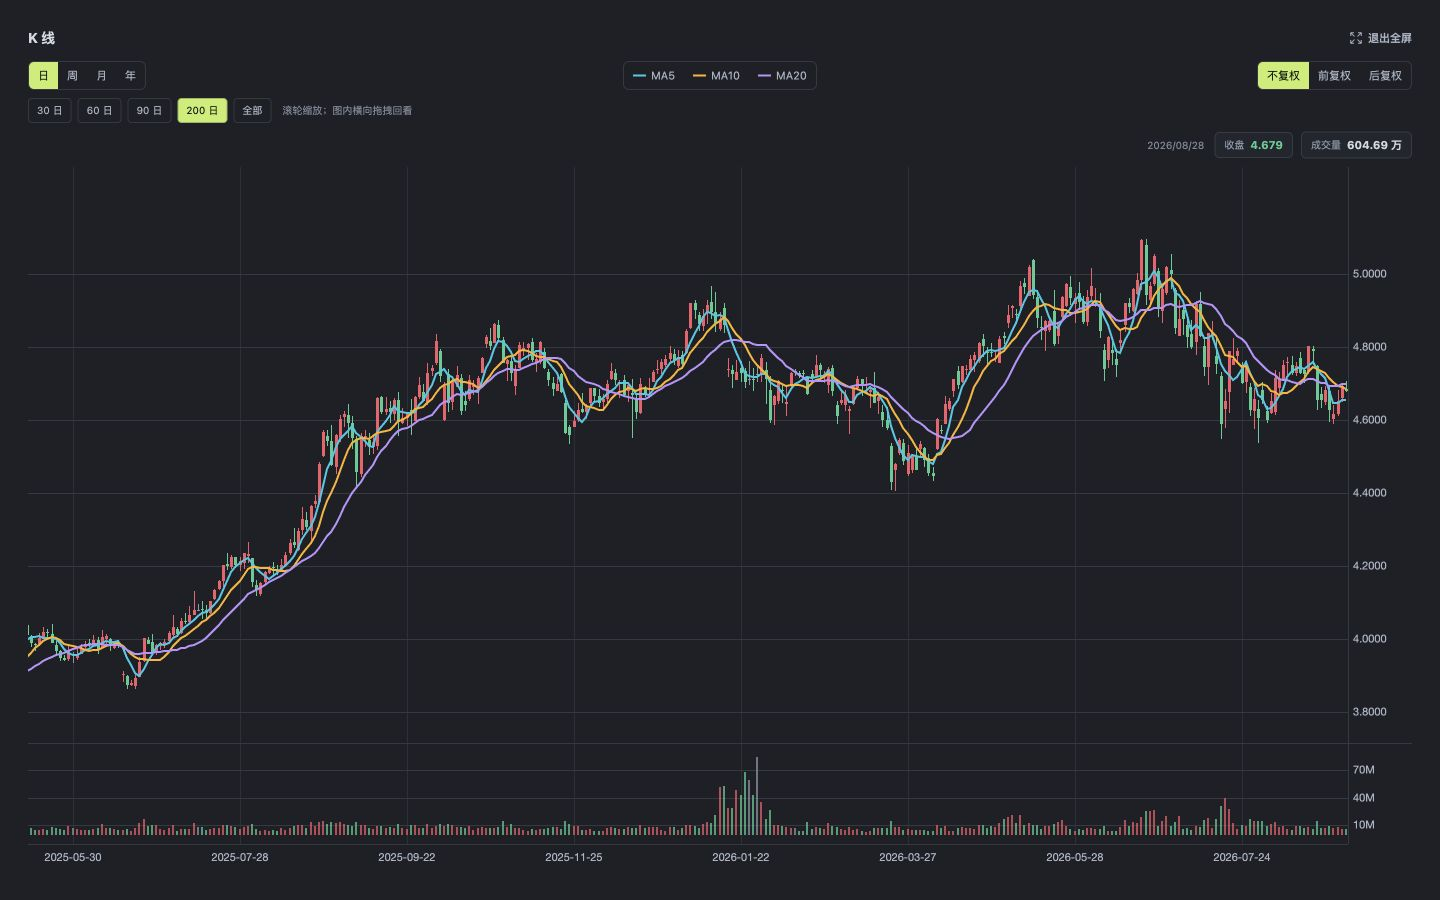
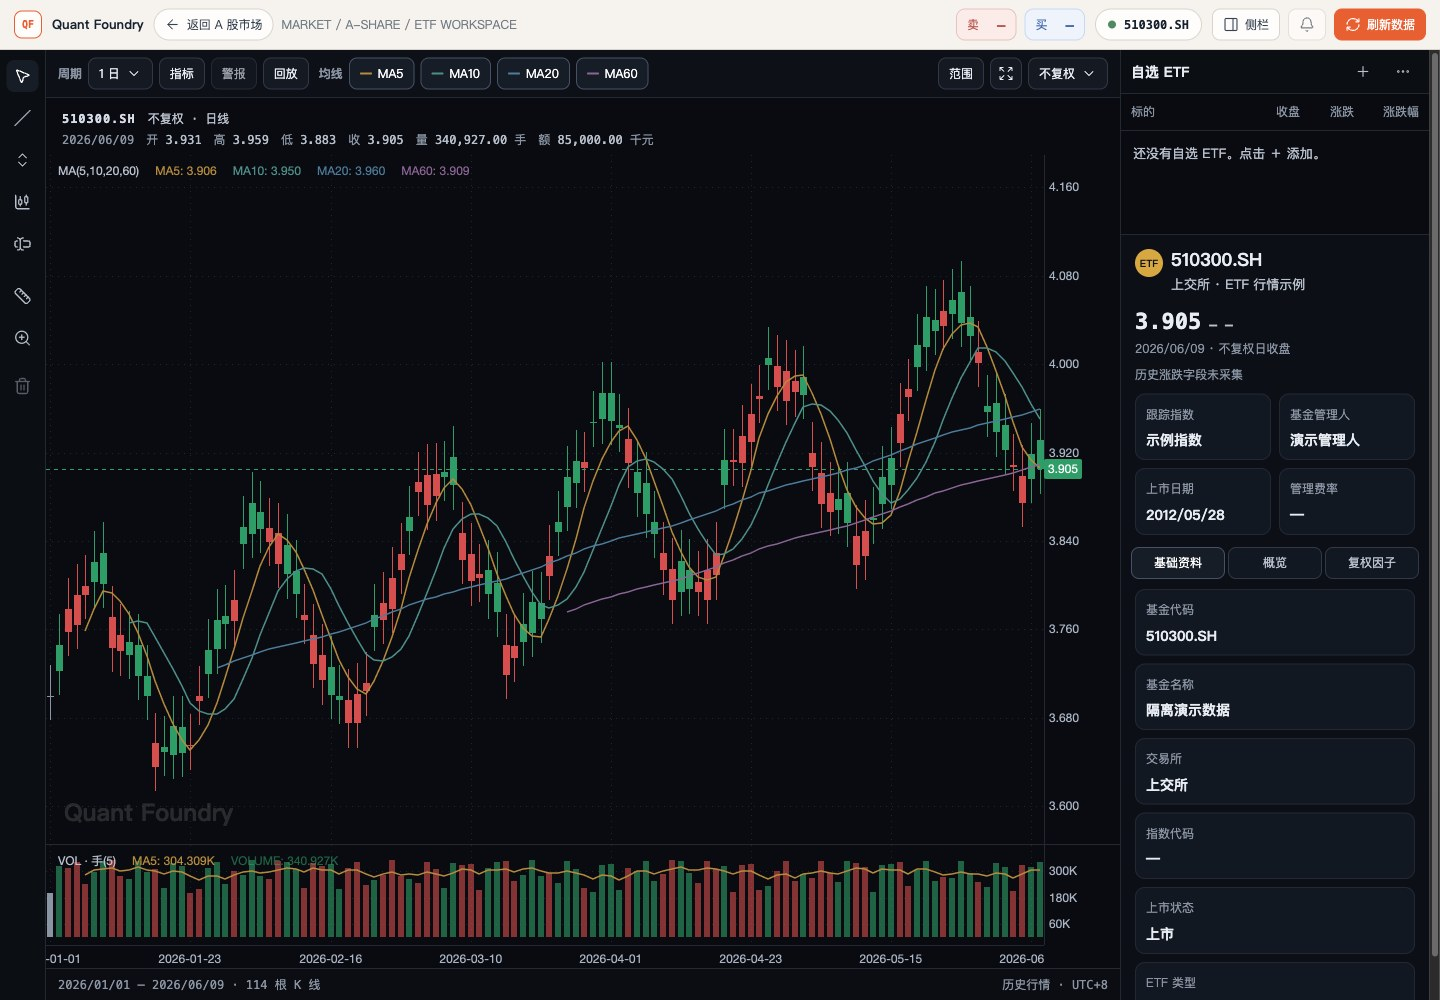
Prepare v0.3.0 release and refresh public documentation

diff --git a/README_EN.md b/README_EN.md
@@ -49,10 +49,22 @@ self-hosting. The long-term goal is to support a broader range of individual inv
 sources and asset classes, and eventually paper trading, risk controls, and live execution. ETFs are
 the starting point of the implementation.
 
+## v0.3.0
+
+This release unifies workspace layouts, typography, controls, and creation flows, and extends the research workflow:
+
+- Configure encrypted data-source credentials in the UI and inspect ingestion tasks and coverage.
+- Name published strategy revisions, search instruments by name or code, and create checked backtests in a stepped Drawer.
+- Explore dedicated result pages, positions, fills, and diagnostics; export all paginated results as JSON.
+- Compare 2–10 completed runs and persist comparison names, run order, and reference runs on the server.
+- Permanently delete unpublished, unreferenced strategies and unreferenced accounts; preserve historical objects through archiving or retirement.
+
+See the [CHANGELOG](./CHANGELOG.md) and [v0.3.0 Release](https://github.com/Li2Wh1te/quant-foundry/releases/tag/v0.3.0).
+
 ## Screenshots
 
 **ETF market data:** browse locally stored daily bars and switch between daily, weekly, monthly, and
-yearly candles, moving averages, and adjusted chart views. The screenshot shows the full-screen chart.
+yearly candles, moving averages, and adjusted chart views. The screenshot shows the new workspace with isolated, generated example bars, not actual market data.
 
 ![ETF market data: candles, moving averages, and adjustment views](./assets/readme/etf-market.jpg)
 
@@ -65,13 +77,11 @@ and sample records.
 
 ![Strategy workbench: source, parameters, validation, and revisions](./assets/readme/strategy-workbench.jpg)
 
-**Backtest analysis:** inspect equity, drawdown, and performance metrics. The screenshot below uses
-synthetic acceptance-test data computed by the actual backtesting engine and rendered in a standalone
-preview of the project's existing report component. It demonstrates the interface, not real ETF historical performance, and
-has not passed through the deployed Runner persistence workflow. See the
-[in-memory engine acceptance test](./backend/tests/test_backtesting_memory_engine_acceptance.py) for the data-generation entry point.
+**Backtest analysis:** explore returns, drawdown, monthly performance, positions, fills, and diagnostics
+in a dedicated result page. This screenshot uses isolated UI test fixtures to demonstrate layout and
+interaction; it does not represent an actual engine run or investment performance.
 
-![Backtest analysis: synthetic acceptance data computed by the real engine](./assets/readme/backtest-report.jpg)
+![Backtest analysis: isolated UI test data](./assets/readme/backtest-report.jpg)
 
 </details>
 
@@ -80,12 +90,12 @@ has not passed through the deployed Runner persistence workflow. See the
 | Area | Implemented capabilities |
 | --- | --- |
 | Data ingestion | Tushare trading calendars, ETF reference data, daily bars, adjustment factors, cash dividends, and suspension/trading status; full, incremental, or recent reconciliation workflows depending on task type |
-| Data exploration | ETF search and filters, reference details, candles and moving averages, forward/backward adjusted charts, adjustment-factor records, calendar coverage, and synchronization status |
-| Strategy management | Python source and parameter editing, draft saving, static validation, immutable revision publishing, history, and archiving; private source is stored in PostgreSQL |
-| Accounts and execution configuration | Backtest accounts, fee schedules and their versions, initial cash and positions, slippage models, and execution component selection |
+| Data exploration | ETF search and filters, persistent watchlists, reference details, candles and moving averages, forward/backward adjusted charts, adjustment-factor records, calendar coverage, and synchronization status |
+| Strategy management | Python source and parameter editing, draft saving, static validation, named immutable revisions, history, archiving, and safe deletion of unpublished strategies; private source is stored in PostgreSQL |
+| Accounts and execution configuration | Backtest accounts, fee schedules and their versions, usage history and safe deletion, initial cash and positions, slippage models, and execution component selection |
 | Local backtesting | Bind a published strategy and fixed instruments, check local data and configuration, queue runs, inspect progress, cancel, rerun, and investigate failures |
-| Result analysis | Equity and drawdown, cash and market value, performance and fee metrics, position and fill details, run comparison, configuration differences, and data evidence |
-| Tasks and operations | Persistent ingestion scheduling, manual execution and history, Chinese operational log summaries, light/dark themes, and Docker Compose self-hosting |
+| Result analysis | Equity and drawdown, cash and market value, performance and fee metrics, position and fill details, server-saved run comparisons, configuration differences, data evidence, and JSON export |
+| Tasks and operations | Persistent ingestion scheduling, manual execution and history, a consistent workspace UI, structured service logs, and Docker Compose self-hosting |
 
 ### Ingest first, then backtest locally
 
@@ -128,7 +138,7 @@ Install Git, Docker, Docker Compose v2, and `make`. Keep Docker running and allo
 images and install build dependencies. Self-hosting does not require Python or Node.js on the host.
 
 ```bash
-git clone https://github.com/Li2Wh1te/quant-foundry.git
+git clone --branch v0.3.0 https://github.com/Li2Wh1te/quant-foundry.git
 cd quant-foundry
 make selfhost
 ```
@@ -141,7 +151,7 @@ preserve valid credentials and configured values, and receive template defaults 
 
 Open [http://127.0.0.1:8080](http://127.0.0.1:8080). Copy the value of `QF_API_TOKEN` from the root `.env`
 into the login page's **API Token** field. This credential grants workbench access; it serves a different
-purpose from `QF_TUSHARE_TOKEN`.
+purpose from the Tushare token configured on the Data Sources page.
 
 **Success check:** you can enter the console and open **策略工作台 (Strategy Workbench)**. Empty data
 lists are expected on a fresh deployment. The current interface uses Chinese labels; this guide includes
@@ -150,8 +160,9 @@ them so the instructions match what you see.
 ### 3. Publish your first strategy
 
 Open **策略工作台 → 新建策略 (New Strategy)**, enter a name, and keep the default Python template,
-empty parameter schema, and default parameters. Choose **创建并编辑 (Create and Edit)**, then
-**保存草稿 → 校验 → 发布版本 (Save Draft → Validate → Publish Revision)**.
+empty parameter schema, and default parameters. Choose **创建并进入编辑器 (Create and Open Editor)**, then
+**保存草稿 → 静态检查 → 发布版本 (Save Draft → Static Check → Publish Revision)**.
+Give the revision an alias describing the change so it is recognizable when selecting a backtest version.
 
 The default strategy's core behavior is:
 
@@ -169,11 +180,15 @@ market data or generating trades.
 
 ### 1. Configure ingestion credentials
 
-Set your `QF_TUSHARE_TOKEN` in the root `.env`, then reload the service configuration:
+Open **数据源 (Data Sources)**, select Tushare, and configure its API URL and token. Testing validates
+the form; saving validates it before replacing the stored settings. Leave an existing token blank to retain it.
+The page never displays the stored token.
 
-```bash
-make selfhost-deploy-backend
-```
+`make selfhost` supplies a missing `QF_DATA_SOURCE_ENCRYPTION_KEY`. On first startup, legacy Tushare
+settings are migrated from environment variables into the database without changing the original file.
+Later environment changes do not overwrite UI-managed settings. Back up the encryption key with the
+database and retain it once encrypted credentials exist. Source-only deployments must configure a
+64-character random hexadecimal key and apply migrations themselves.
 
 Your Tushare account also needs access to the relevant endpoints. Having a token, endpoint permissions,
 and adequate local data coverage are separate prerequisites. The project does not include a data-source
@@ -181,14 +196,14 @@ account or a ready-to-run offline market-data bundle.
 
 ### 2. Ingest and inspect local data
 
-Create tasks in **任务调度 (Task Scheduler)** in the order below. Select task types by their displayed
+Create tasks in **采集任务 (Ingestion Tasks)** in the order below. Select task types by their displayed
 Chinese/English names. You can run a task manually after creation and configure future incremental runs.
 
 | Order | Task type | What to check afterward |
 | --- | --- | --- |
 | 1 | 交易日历采集（Sync Tushare trade calendar） | Configure each required exchange, such as `SSE` and `SZSE`, with a start date covering research and warmup; inspect coverage in 交易日历 (Trading Calendar) |
-| 2 | ETF基础信息采集（Sync Tushare ETF basics） | Find the target ETF in ETF 基础信息 (ETF Reference Data) and inspect its details |
-| 3 | ETF日线全量采集（Full Tushare ETF daily bars） | Establish history, inspect the actual date range in the ETF's 日线 K 线 (Daily Candles) tab, then schedule incremental daily-bar ingestion |
+| 2 | ETF基础信息采集（Sync Tushare ETF basics） | Find the target ETF in A 股市场 (A-share Market), in the ETF list and inspect its details |
+| 3 | ETF日线全量采集（Full Tushare ETF daily bars） | Establish history, inspect the actual date range in the ETF market-detail workspace, then schedule incremental daily-bar ingestion |
 | 4 | 停牌交易状态采集（Trading status and suspension ingestion）、ETF现金分红全量采集（Full Tushare ETF cash dividends） | Fill the applicable instrument/date coverage, check run records, and use backtest preflight to determine whether the evidence is sufficient |
 
 For the first historical trading-status collection, explicitly set `start_date` and `end_date` to cover
@@ -212,44 +227,28 @@ window. Creating a schedule or seeing a chart alone does not establish backtest 
   [strategy protocol implementation](./backend/app/strategy_protocol/), then validate and publish your strategy.
 - Create an available account in **回测账户 (Backtest Accounts)**, configure the fee schedule and rules,
   save it, and select its corresponding version in the backtest workspace.
-- Identify the target ETF's **instrument UUID** in the local instrument catalog. The fixed-instrument
-  input requires a UUID, not a trading code such as `510300.SH`.
+- Search and select ETFs by name or code in **固定标的范围 (Fixed Instruments)**. Initial positions use
+  the same searchable selector. The system resolves UUIDs; you do not enter them manually. Missing
+  identity mappings must be repaired before proceeding, and preflight remains authoritative.
 
-<details>
-<summary><strong>How do I find an instrument UUID?</strong></summary>
+### 4. Check and run
 
-The current workflow requires checking local code mappings. Run `make selfhost-psql`, replace the
-example code below with your target ETF, and execute this read-only query:
+Open **回测工作台 → 创建回测 (Backtest Workspace → Create Backtest)**, or enter from a strategy:
 
-```sql
-SELECT instrument_id, source_code, valid_from, valid_to, known_at
-FROM instrument_code_mappings
-WHERE source = 'tushare' AND source_code = '510300.SH'
-ORDER BY valid_from, known_at;
-```
+1. **策略与版本 (Strategy and Revision):** select a published version by number and alias and set parameters.
+2. **账户与执行配置 (Account and Execution):** select an account version, dates, cash, instruments,
+   exchange calendars, slippage, warmup sessions, and initial positions. Dates cannot be in the future; start with raw prices.
+3. **运行检查与确认 (Check and Confirm):** click **检查当前配置 (Check Current Configuration)**.
+   Resolve missing data, account, or rule issues. Review and confirm permitted degradations; resolve
+   blockers before continuing. Every configuration change requires a fresh check. Then click **创建回测 (Create Backtest)**.
 
-Check the mapping's effective interval against the backtest window, then enter the corresponding
-`instrument_id`. If historical mappings produce multiple rows, inspect their validity and knowledge
-times; preflight remains authoritative. If the query is empty, check ingestion and identity mappings
-instead of supplying an arbitrary UUID. Enter `\q` to leave psql.
+The independent Runner executes against the local database. Open **完整结果 (Full Results)** to inspect
+metrics, curves, details, and diagnostics. Copy configuration for another run, export JSON, or add the
+run to a comparison and save the comparison on the server.
 
-</details>
-
-### 4. Run preflight, then execute
-
-Enter the strategy's **回测工作台 (Backtest Workspace)**. Select the published revision and account
-version; set dates, cash, fixed instrument UUIDs, matching exchange calendars, and a slippage model.
-Start with raw prices and set warmup sessions and initial positions as required by your strategy.
-
-Click **预检当前配置 (Preflight Current Configuration)**. Address missing data, account settings, and
-rule issues listed in the report. For confirmable degradations, review the consequences, confirm as
-instructed, and rerun preflight. Blocking issues must be resolved. Any configuration change also requires
-fresh preflight. Once admitted, click **创建正式回测 (Create Formal Backtest)**; the independent Runner
-executes against data in the local database.
-
-**Success check:** the run finishes and you can inspect its status, result integrity, and report.
-A successful `hold` example with no initial positions may have no fills and a flat equity curve. Use
-run details, preflight evidence, and operational logs to investigate failures.
+**Success check:** inspect the run status, result integrity, and result page. A successful empty `hold`
+example may have no fills and a flat curve. Use diagnostics, preflight evidence, and `make selfhost-logs`
+to investigate failures.
 
 ## Roadmap
 
@@ -267,6 +266,28 @@ These are development directions, not promised dates or a fixed delivery sequenc
 
 Use [Issues](https://github.com/Li2Wh1te/quant-foundry/issues) to discuss use cases, data requirements,
 and design tradeoffs.
+
+## Upgrade from an older version
+
+Back up PostgreSQL and the root `.env`, including the data-source encryption key. Retain existing
+configuration and volumes. In your deployment checkout, run:
+
+```bash
+git fetch origin --tags
+git checkout v0.3.0
+make selfhost
+```
+
+Preserve local code changes first. This builds both services, applies migrations, and updates Runner.
+Upgrade the complete stack: a frontend/backend version mismatch blocks login. Refresh the browser
+and check service status afterward.
+
+Legacy Tushare environment settings migrate into the database on first startup; maintain them through
+**数据源 (Data Sources)** afterward. Keep `QF_DATA_SOURCE_ENCRYPTION_KEY` with the database.
+This release removes the operational-log, standalone daily-quote, and API-documentation navigation
+entries, the `/api/admin/logs`, `/api/admin/logs/clear`, and sample `/api` endpoints, and support for
+`QF_LOG_QUERY_MAX_FILES`. ETF market queries, structured log writing, and developer documentation
+at `/docs` and `/redoc` remain available.
 
 ## Development and operations
 
@@ -362,13 +383,13 @@ the root `.env`; source development uses `backend/.env`. Relevant services must 
 | `QF_API_TOKEN` | Shared Web and business API access credential |
 | `QF_CURSOR_SIGNING_KEY` | Server-only signing key for backtest result cursors |
 | `QF_BACKTEST_INTERNAL_TOKEN` | Internal acceptance endpoint credential; unnecessary for ordinary onboarding |
-| `QF_TUSHARE_TOKEN` / `QF_TUSHARE_API_URL` | Ingestion token and Tushare request URL |
+| `QF_DATA_SOURCE_ENCRYPTION_KEY` | Data-source credential encryption key; keep with the database backup |
 | `QF_INGESTION_REQUEST_INTERVAL_MS` | Minimum interval between external ingestion requests; task settings can only increase it |
 | `QF_DATABASE_*` | PostgreSQL connection settings |
 | `QF_SERVER_*` / `QF_WEB_*` | Backend listeners and self-hosted Web addresses/ports |
 | `QF_SCHEDULER_*` | Ingestion scheduler enablement, concurrency, queuing, and misfire settings |
 | `QF_BACKTEST_*` | Independent Runner concurrency, queue, timeout, memory, heartbeat, and progress persistence settings |
-| `QF_LOG_*` | Log directory, level, retention, and query limits |
+| `QF_LOG_*` | Log directory, level, retention, and queue capacity |
 | `QF_ENVIRONMENT` / `QF_DEBUG` | Environment and debugging settings |
 
 Self-hosted initialization generates deployment secrets when missing or known to be invalid, and sets
@@ -446,10 +467,10 @@ provide full parameters, response schemas, and interactive API exploration.
 | --- | --- |
 | Authentication and version | Validate an access token and query the deployed version |
 | Data queries | Read locally stored trading calendars, ETF reference data, daily bars, and adjustment factors |
-| Strategies | Manage drafts, static validation, published revisions, and archiving |
+| Strategies | Manage drafts, static validation, revision aliases, publishing, archiving, and safe deletion |
 | Backtest accounts and configuration | Manage account/fee versions and query available execution components |
-| Backtest runs and results | Preflight, create, inspect, cancel, rerun, view report details, and compare runs |
-| Scheduling and logs | Task types, schedules, execution history, and structured log queries |
+| Backtest runs and results | Preflight, create, inspect, cancel, rerun, view report details, and manage saved comparisons |
+| Ingestion scheduling | Task types, schedules, execution history, and status counts |
 
 Business APIs use `Authorization: Bearer <QF_API_TOKEN>`:
 

diff --git a/CHANGELOG.md b/CHANGELOG.md
@@ -7,6 +7,57 @@ and official releases follow [Semantic Versioning](https://semver.org/spec/v2.0.
 
 ## [Unreleased]
 
+## [0.3.0] - 2026-09-14
+
+### Added
+
+- UI-managed, encrypted data-source credentials and connection validation, with
+  one-time migration of legacy Tushare environment settings.
+- Operational overview, searchable ingestion task and market workspaces,
+  trading-calendar details, persistent ETF watchlists, and daily change facts.
+- Strategy revision aliases, searchable instrument selection, and a stepped
+  backtest creation Drawer shared by strategy and backtest workspaces.
+- Safe permanent deletion of unpublished, unreferenced strategies and accounts
+  without backtest references; historical objects retain archive/retire paths.
+- Dedicated backtest results with returns, drawdown, monthly performance,
+  positions, fills, diagnostics, configuration copying, and complete JSON export.
+- Comparisons of 2–10 completed runs, including aligned curves, comparable
+  metrics, configuration differences, reference selection, and server-persisted
+  comparison names, run order, renaming, and deletion.
+
+### Changed
+
+- Unified twelve frontend page surfaces around shared typography, controls,
+  responsive layouts, right-side creation Drawers, and unsaved-change guards.
+- Improved account editing, fee rules, version history, and usage information.
+- Kept existing content and empty states stable during refresh and moved success
+  feedback into non-layout-shifting notifications.
+- Refreshed both public READMEs, onboarding and upgrade instructions, and screenshots.
+
+### Fixed
+
+- Strategy-scoped PostgreSQL backtest queries and nested API response serialization.
+- Stale preflight admission after configuration changes, instrument mapping
+  selection, future-date entry, and dropdown/calendar consistency.
+- Comparison date alignment, missing-data gaps, metric comparability, and retry
+  behavior for persisted comparison changes.
+
+### Removed
+
+- Operational-log, standalone daily-quote, and API-documentation navigation
+  entries, along with unused frontend pages and supporting code.
+- Legacy `/api/admin/logs`, `/api/admin/logs/clear`, and sample `/api` endpoints,
+  and the `QF_LOG_QUERY_MAX_FILES` setting. Structured log writing, ETF market
+  queries, and developer `/docs` and `/redoc` remain available.
+
+### Upgrade notes
+
+- Back up PostgreSQL and the root `.env`, then deploy the complete v0.3.0 stack
+  with `make selfhost` to apply database migrations and update Backend, Runner,
+  and Frontend together. Frontend/backend version mismatches block login.
+- Preserve `QF_DATA_SOURCE_ENCRYPTION_KEY` with the database. After legacy source
+  settings migrate, edit them in the data-source UI rather than environment variables.
+
 ## [0.2.0] - 2026-09-07
 
 ### Added
